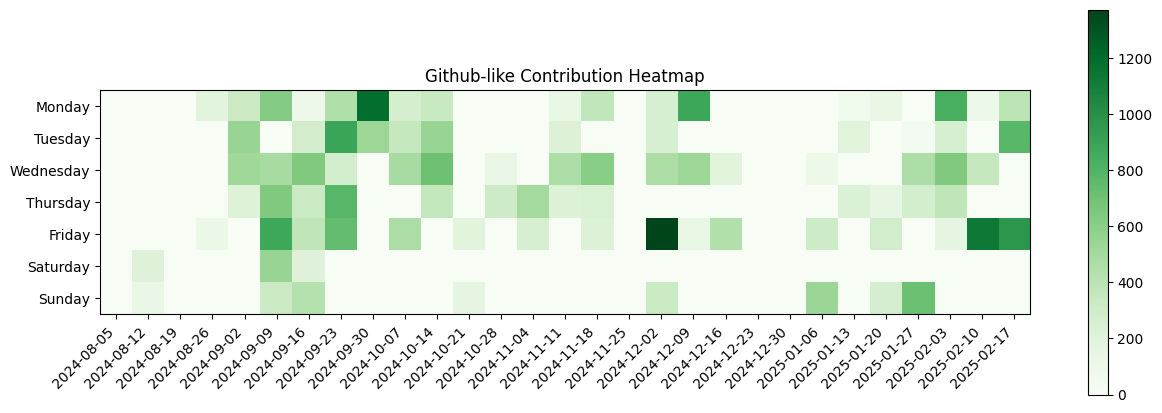
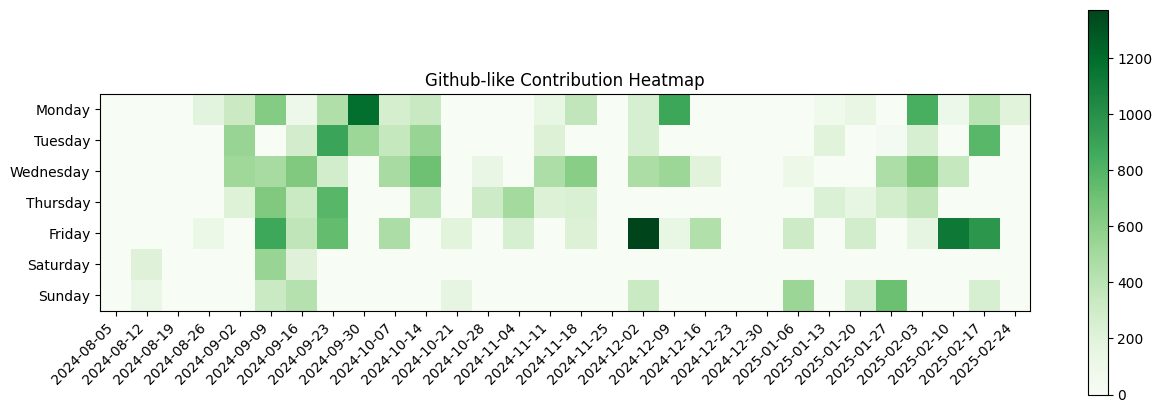
Update

diff --git a/README.md b/README.md
@@ -85,4 +85,6 @@
 20250217 394.37 (7.10-0.63)*61
 20250218 237.79 (6.74-1.21)*43   249.47 (6.92-0.53)*39   197.00 (6.97-1.00)*33   90.56 (6.76-1.44)*17
 20250221 117.09 (5.79-0.91)*24   82.62 (5.14-1.38)*22   246.17 (6.69-0.83)*42   190.26 (6.69-0.74)*32   329.94 (6.30-1.06)*63
+20250223 249.87 (4.75-1.13)*69
+20250224 191.23 (6.75-0.77)*32
 ```
